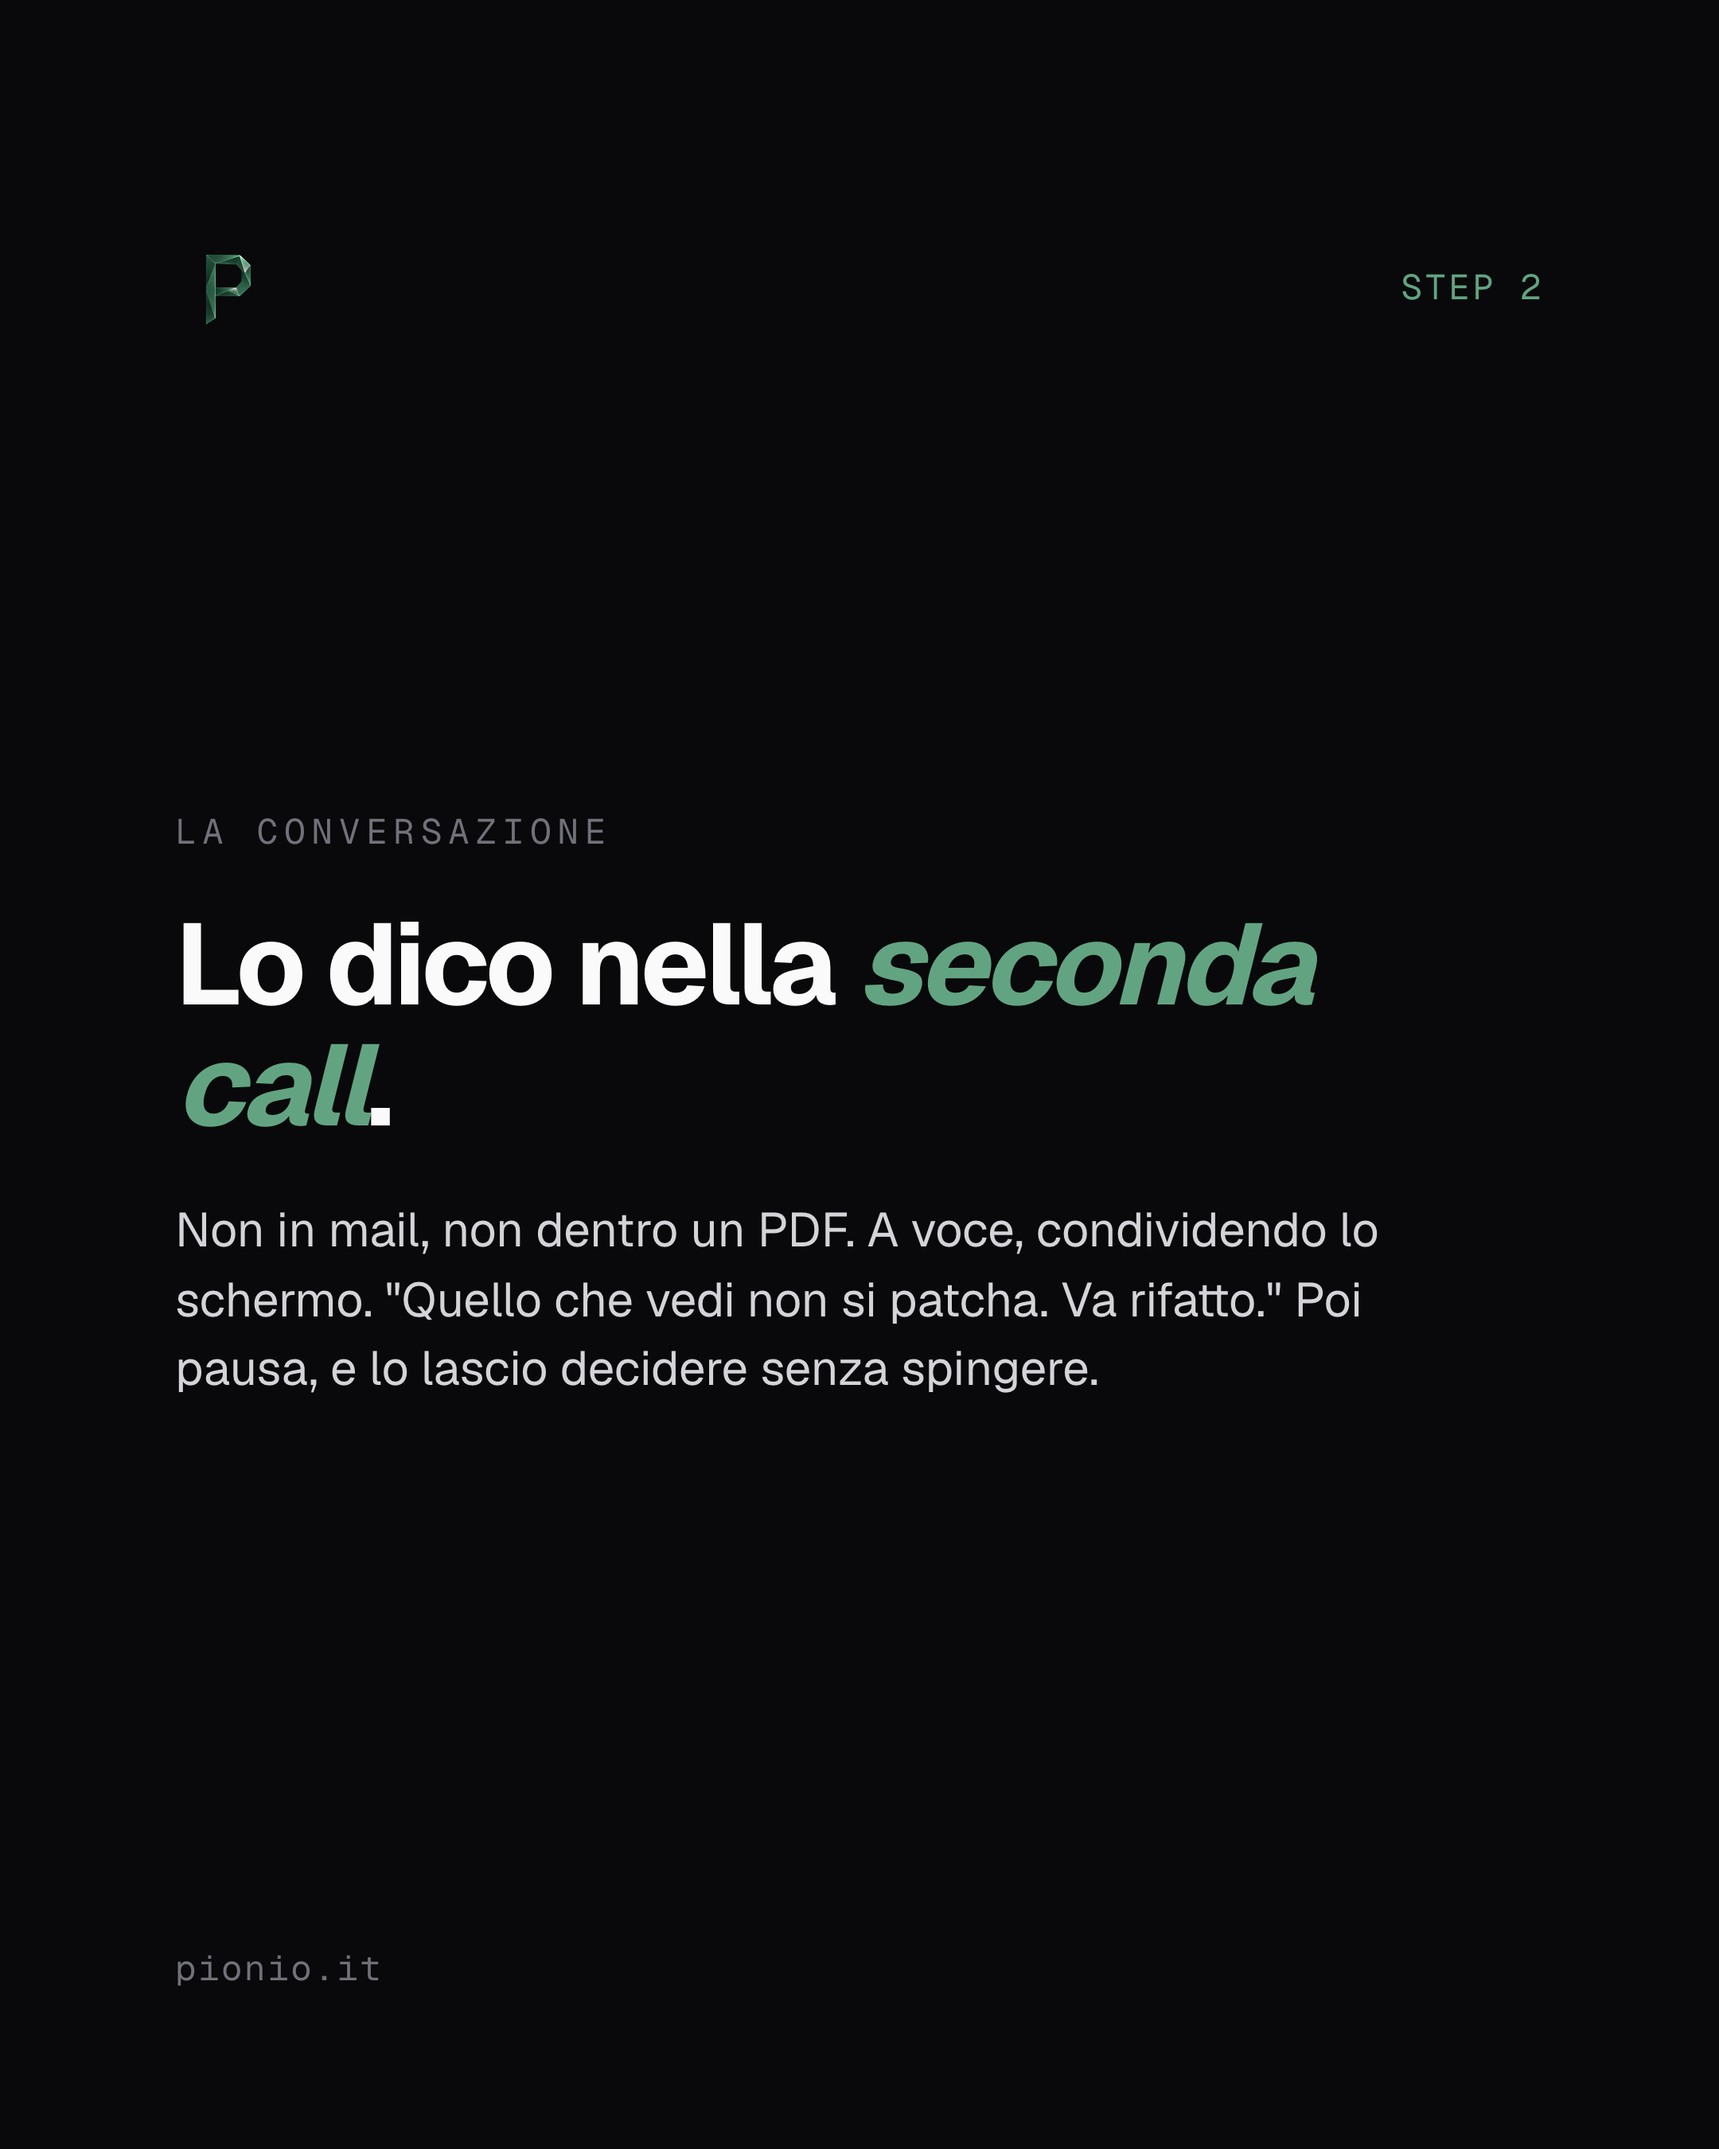
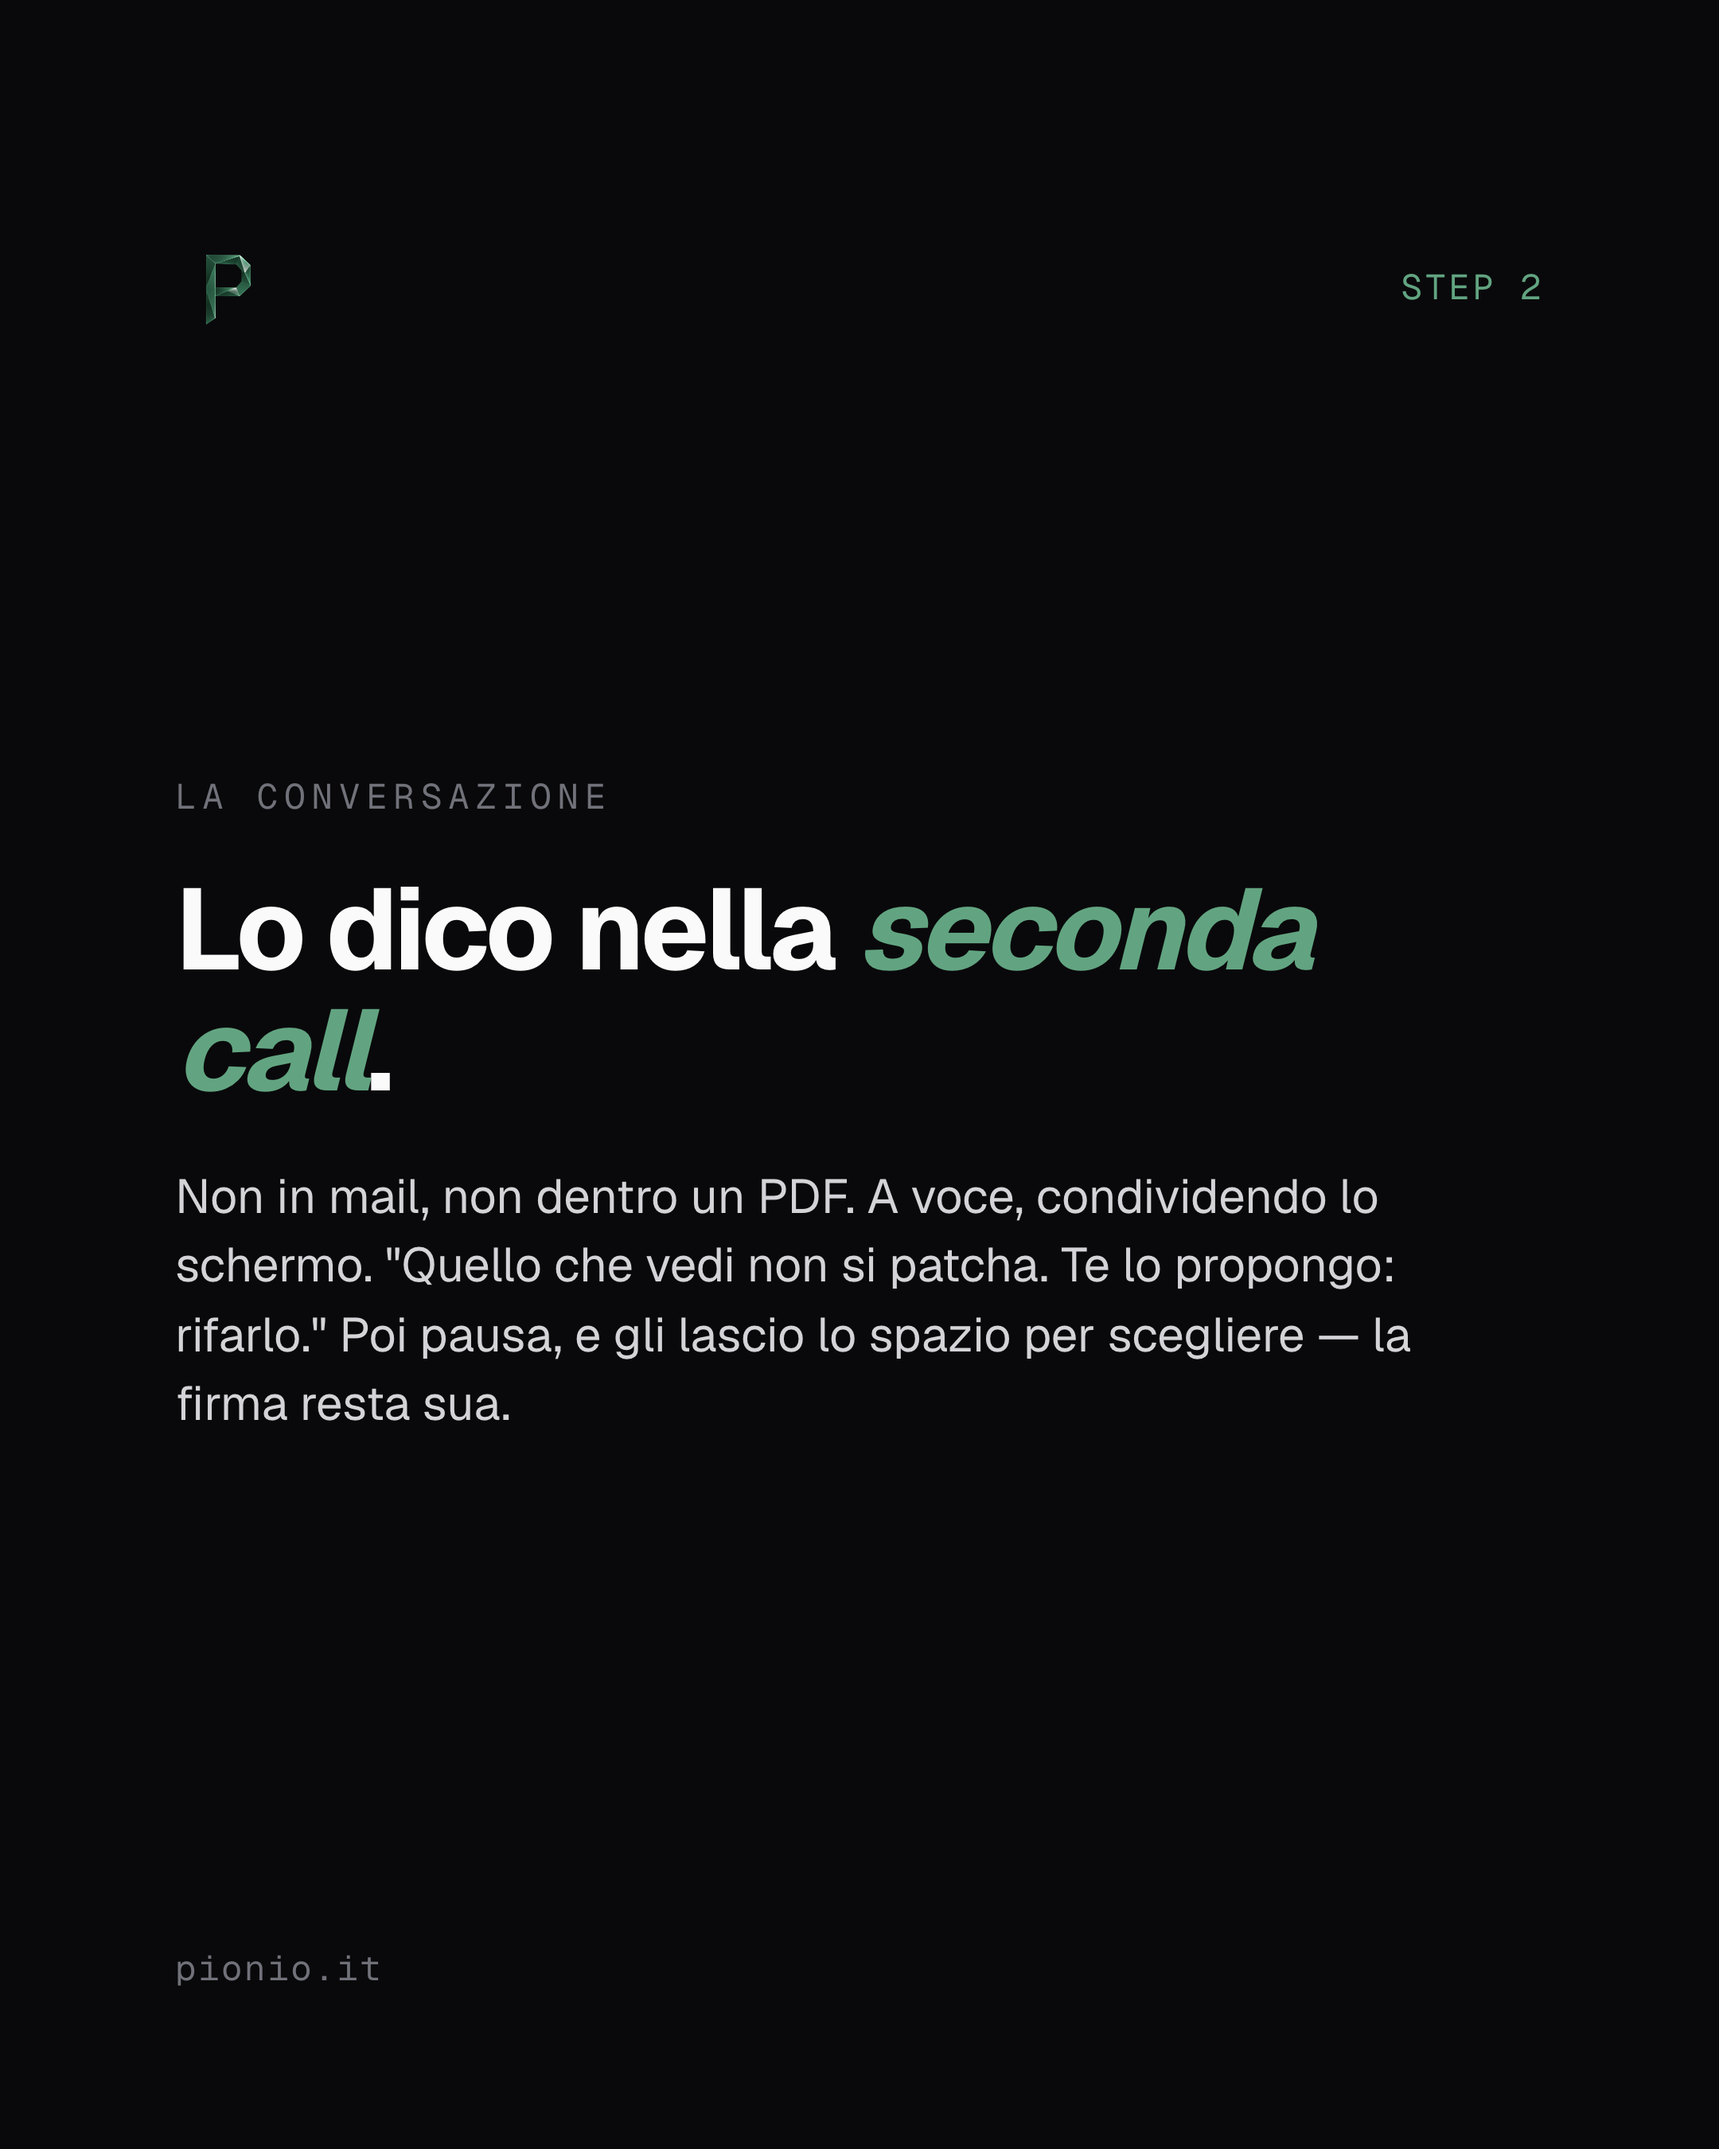
fix(instagram): chiarisce 'io propongo, cliente decide' nel caso studio W6
Contraddizione narrativa tra caso studio Ven 26 ("la parola rifare la dico io")
e riflessione Ven 26 ("rifare è una decisione del cliente"). Riformulato in:
- slide 2: "la parola rifare nasce dalla mia diagnosi, la decisione resta sua"
- slide 4: "Te lo propongo: rifarlo / la firma resta sua"
- slide 10: "il peso è portarla, non decidere per lui"
- caption: "la propongo io" invece di "la dico io"
- manifesto caption: "lo propongo" invece di "lo dico"

3 PNG re-renderizzati (caso studio slide 2/4/10).

Changed region(s): [[0.0931, 0.3733, 0.8065, 0.6844]]

diff --git a/instagram/content/settimana-06-giu-2026/5-ven-26-13-caso-studio-rifacciamolo/src/slides.html b/instagram/content/settimana-06-giu-2026/5-ven-26-13-caso-studio-rifacciamolo/src/slides.html
@@ -49,7 +49,7 @@
   <div class="main">
     <div class="step-label">LE PAROLE DEL CLIENTE</div>
     <h2 class="step-headline">La richiesta non è mai <em>rifare</em>.</h2>
-    <p class="step-body">Il cliente chiede sempre un restyling. La parola "rifare" la dico io, dopo l'audit — non lui. La richiesta è il sintomo, la diagnosi arriva dopo.</p>
+    <p class="step-body">Il cliente chiede sempre un restyling. La parola "rifare" nasce dalla mia diagnosi, dopo l'audit — non dalla sua richiesta. La diagnosi è mia, la decisione finale resta sua.</p>
   </div>
   <div class="footer"><div class="footer-url">pionio.it</div></div>
 </section>
@@ -69,7 +69,7 @@
   <div class="main">
     <div class="step-label">LA CONVERSAZIONE</div>
     <h2 class="step-headline">Lo dico nella <em>seconda call</em>.</h2>
-    <p class="step-body">Non in mail, non dentro un PDF. A voce, condividendo lo schermo. "Quello che vedi non si patcha. Va rifatto." Poi pausa, e lo lascio decidere senza spingere.</p>
+    <p class="step-body">Non in mail, non dentro un PDF. A voce, condividendo lo schermo. "Quello che vedi non si patcha. Te lo propongo: rifarlo." Poi pausa, e gli lascio lo spazio per scegliere — la firma resta sua.</p>
   </div>
   <div class="footer"><div class="footer-url">pionio.it</div></div>
 </section>
@@ -129,7 +129,7 @@
   <div class="main">
     <div class="step-label">IN UNA RIGA</div>
     <h2 class="step-headline"><em>Rifare</em> è una decisione, non un capriccio.</h2>
-    <p class="step-body">Quando lo dico al cliente ho già fatto il conto. Lui vede una proposta, io vedo il preventivo che salva il progetto a tre anni. È un peso che mi prendo, non una vendita.</p>
+    <p class="step-body">Quando porto la proposta al cliente ho già fatto il conto. Lui vede una proposta, io vedo il preventivo che salva il progetto a 3 anni. Il peso che mi prendo è portarla, non decidere per lui — quello tocca sempre a chi firma.</p>
     <div class="cta">
       <span class="cta-label">Hai un'idea? Parliamone.</span>
       <span class="cta-arrow">→</span>
